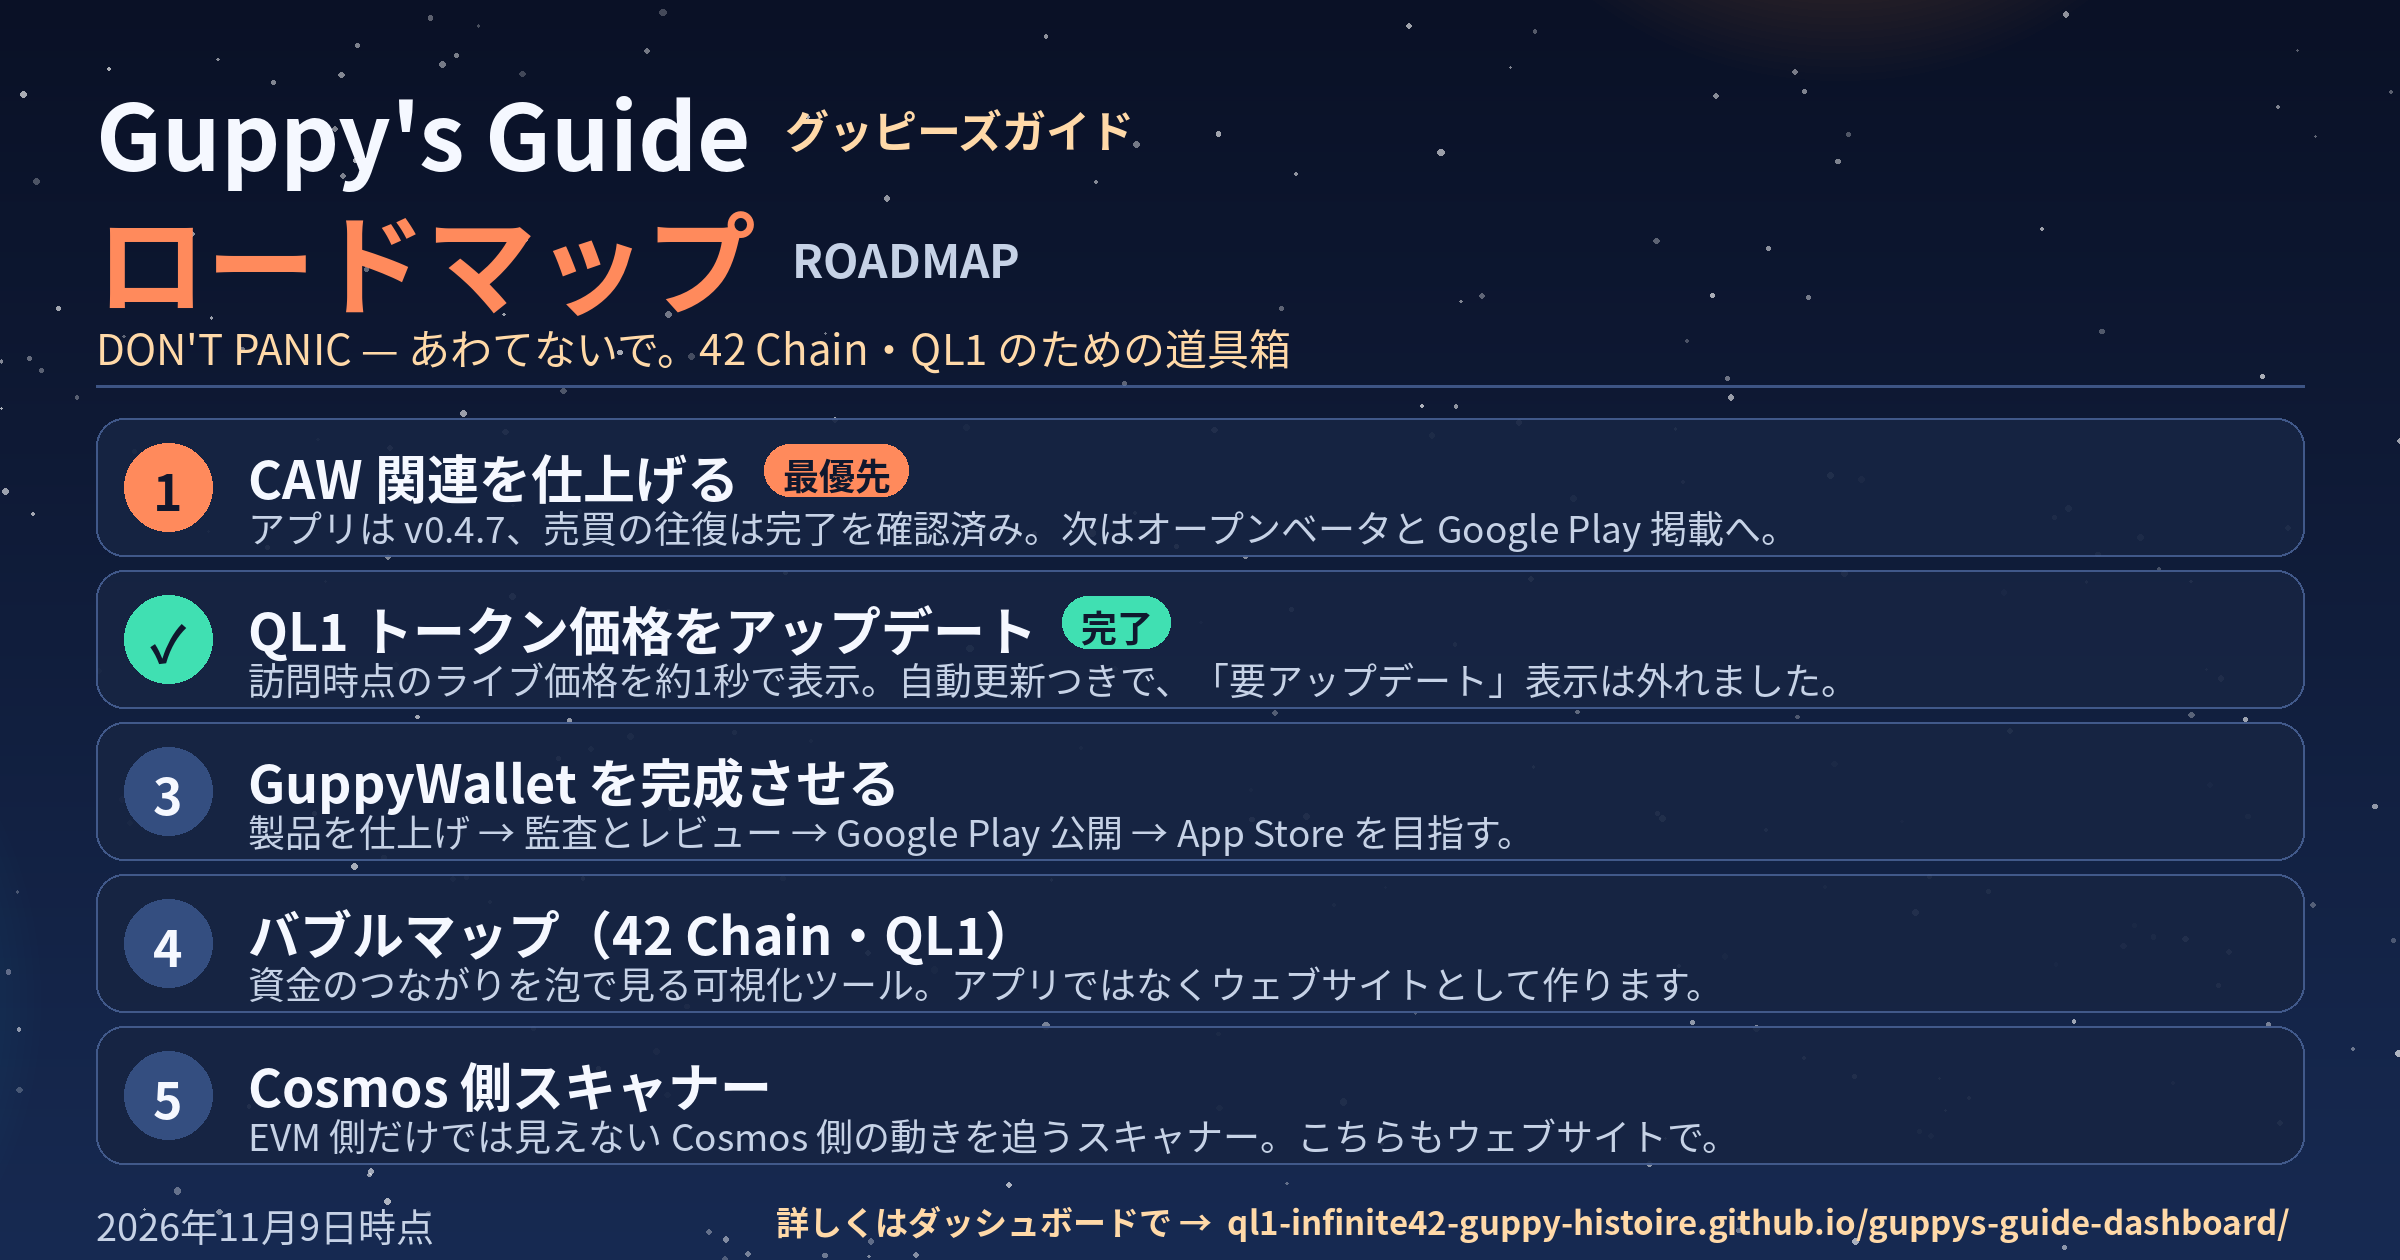
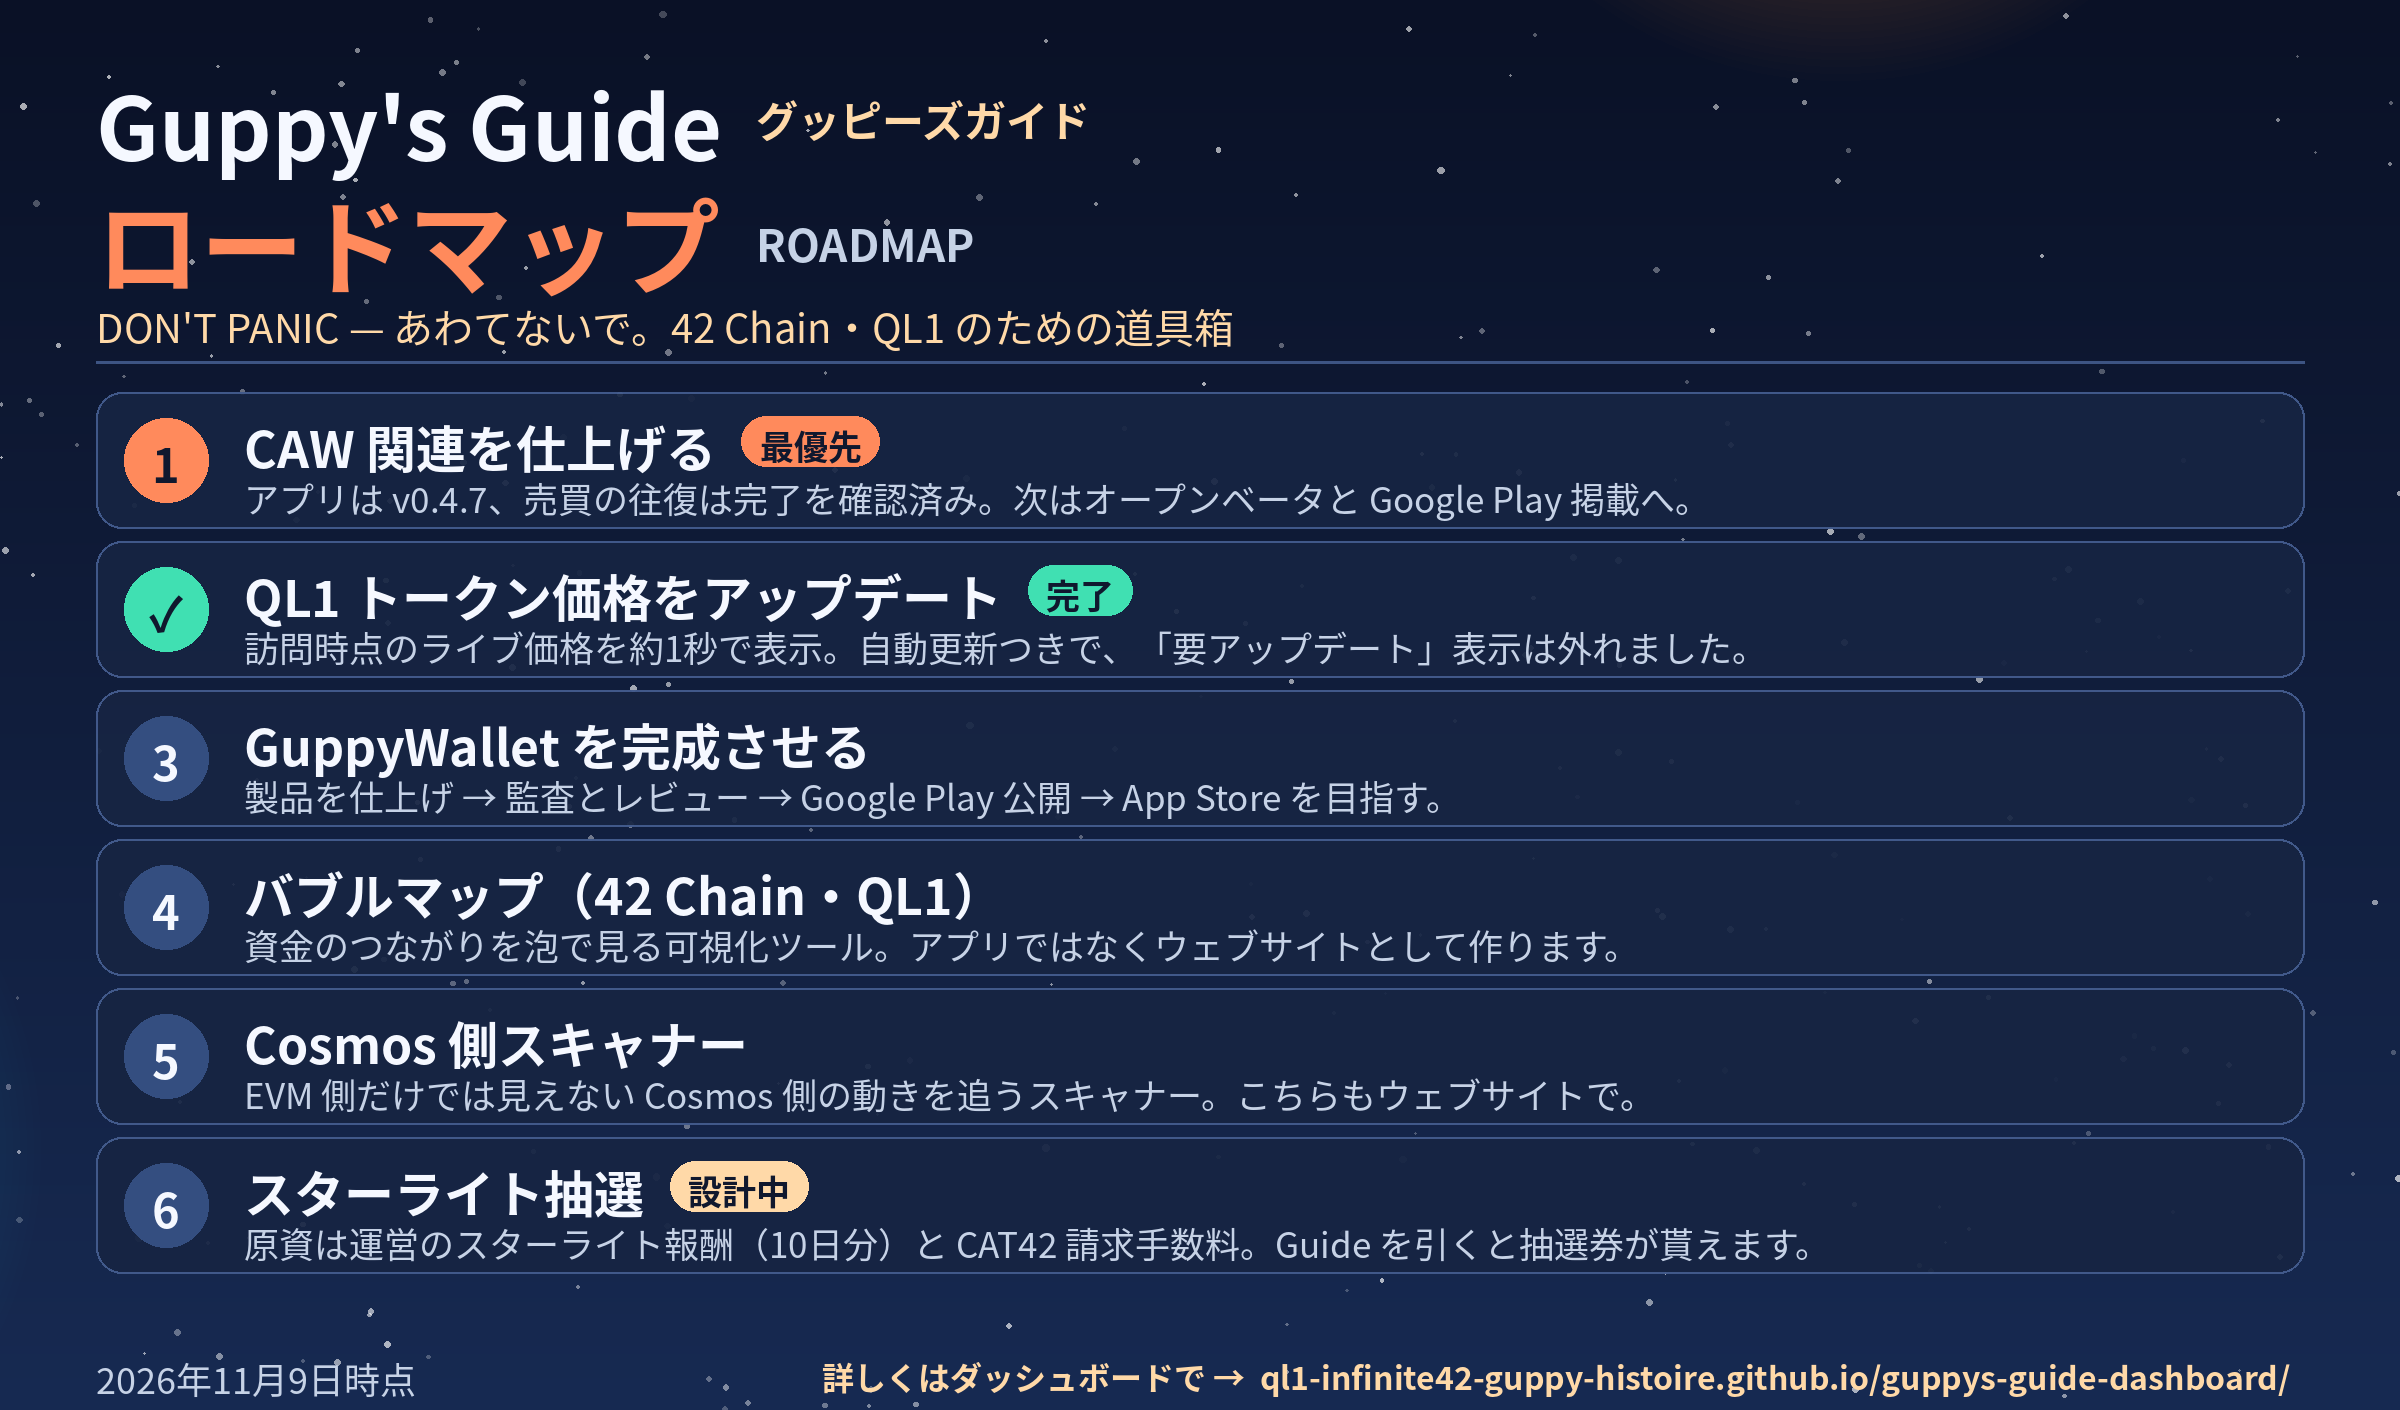
Roadmap: add Starlight Lottery as item 6 and remake the roadmap image
- Image rebuilt at 2400x1410 with all 6 items; item 6 notes both funding sources (operator Starlight rewards + CAT42 claim fees) and its in-design status
- ROADMAP array gains the Starlight Lottery entry in all 12 languages
- Banner image dimensions/alt updated to match

Changed region(s): [[0.0312, 0.0619, 0.9688, 0.9286], [0.3125, 0.9595, 0.9688, 0.9905], [0.0312, 0.9595, 0.1875, 0.9905]]

diff --git a/index.html b/index.html
@@ -270,7 +270,7 @@
       </header>
 
       <a class="roadmap-banner" href="#roadmap" aria-label="Roadmap details">
-        <img src="roadmap.png" alt="Guppy's Guide ロードマップ（2026年11月9日時点）: 1. CAW 関連を仕上げる（最優先） 2. QL1 トークン価格をアップデート（完了） 3. GuppyWallet を完成させる 4. バブルマップ（42 Chain・QL1） 5. Cosmos 側スキャナー" width="2400" height="1260" />
+        <img src="roadmap.png" alt="Guppy's Guide ロードマップ（2026年11月9日時点）: 1. CAW 関連を仕上げる（最優先） 2. QL1 トークン価格をアップデート（完了） 3. GuppyWallet を完成させる 4. バブルマップ（42 Chain・QL1） 5. Cosmos 側スキャナー 6. スターライト抽選（設計中）" width="2400" height="1410" />
         <span class="roadmap-banner-hint" data-i18n="roadBannerHint">タップでロードマップの詳細へ ↓</span>
       </a>
 
@@ -645,6 +645,10 @@
         {
           title: L("Cosmos 側スキャナー","Cosmos-side scanner for QL1 + 42 Chain","QL1 + 42 Chain 的 Cosmos 侧扫描器","QL1 + 42 Chain용 Cosmos 측 스캐너","Escáner del lado Cosmos para QL1 + 42 Chain","Scanner côté Cosmos pour QL1 + 42 Chain","Cosmos-seitiger Scanner für QL1 + 42 Chain","Scanner do lado Cosmos para QL1 + 42 Chain","Сканер стороны Cosmos для QL1 + 42 Chain","ماسح جانب Cosmos لـ QL1 + 42 Chain","QL1 + 42 Chain के लिए Cosmos-साइड स्कैनर","Pemindai sisi Cosmos untuk QL1 + 42 Chain"),
           body: L("EVM 側だけでは見えない Cosmos 側の動きを追うスキャナー。こちらもウェブサイトとして作る。","A scanner for the Cosmos side that the EVM view cannot see — also built as a website.","用于追踪仅靠 EVM 视图看不到的 Cosmos 侧动态的扫描器，同样作为网站构建。","EVM 뷰만으로는 볼 수 없는 Cosmos 측의 움직임을 추적하는 스캐너. 이쪽도 웹사이트로 만듭니다.","Un escáner para el lado Cosmos que la vista EVM no puede ver, también construido como sitio web.","Un scanner pour le côté Cosmos que la vue EVM ne peut pas voir — également construit comme site web.","Ein Scanner für die Cosmos-Seite, die die EVM-Ansicht nicht sehen kann — ebenfalls als Website gebaut.","Um scanner para o lado Cosmos que a visão EVM não consegue ver — também construído como site.","Сканер для стороны Cosmos, которую не видит EVM-представление, — также создаётся как веб-сайт.","ماسح لجانب Cosmos الذي لا تستطيع رؤية EVM رؤيته — يُبنى أيضًا كموقع ويب.","Cosmos पक्ष के लिए स्कैनर जिसे EVM दृश्य नहीं देख सकता — यह भी वेबसाइट के रूप में बनाया गया।","Pemindai untuk sisi Cosmos yang tidak dapat dilihat oleh tampilan EVM — juga dibangun sebagai situs web.")
+        },
+        {
+          title: L("スターライト抽選（新企画）","Starlight Lottery (new project)","Starlight 抽奖（新项目）","스타라이트 추첨 (신규 기획)","Sorteo Starlight (proyecto nuevo)","Loterie Starlight (nouveau projet)","Starlight-Lotterie (neues Projekt)","Loteria Starlight (projeto novo)","Лотерея Starlight (новый проект)","قرعة ستارلايت (مشروع جديد)","Starlight लॉटरी (नया प्रोजेक्ट)","Lotre Starlight (proyek baru)"),
+          body: L("運営のスターライト報酬（10日分）とCAT42請求手数料を原資にした抽選。Guideを引くとティアに応じた抽選券が貰え（コモン1／レア2／エピック4／レジェンダリー8）、応募すると券は減る。設計中。","A lottery funded by the operator's Starlight rewards (10 days' worth) plus the CAT42 claim fees. Pulling a Guide earns entry tickets by tier (Common 1 / Rare 2 / Epic 4 / Legendary 8), and entering spends them. In design.","以运营方的 Starlight 奖励（10 天量）与 CAT42 领取手续费为奖金池的抽奖。抽到 Guide 可按等级获得抽奖券（普通1／稀有2／史诗4／传说8），报名即消耗。设计中。","운영자의 스타라이트 보상(10일분)과 CAT42 청구 수수료를 재원으로 한 추첨. Guide를 뽑으면 등급별 추첨권(커먼1/레어2/에픽4/레전더리8)을 받고, 응모하면 소모됩니다. 설계 중.","Un sorteo financiado con las recompensas Starlight del operador (10 días) y las comisiones de reclamo de CAT42. Al obtener un Guide recibes boletos según su nivel (Común 1 / Raro 2 / Épico 4 / Legendario 8) y al participar se gastan. En diseño.","Une loterie financée par les récompenses Starlight de l'opérateur (10 jours) et les frais de réclamation CAT42. Tirer un Guide donne des tickets selon le niveau (Commun 1 / Rare 2 / Épique 4 / Légendaire 8), consommés à l'inscription. En conception.","Eine Lotterie, finanziert aus den Starlight-Belohnungen des Betreibers (10 Tage) plus den CAT42-Claim-Gebühren. Ein gezogener Guide gibt Tickets nach Stufe (Common 1 / Rare 2 / Epic 4 / Legendary 8), die bei Teilnahme verbraucht werden. In Planung.","Uma loteria financiada pelas recompensas Starlight do operador (10 dias) e pelas taxas de resgate do CAT42. Ao obter um Guide você ganha bilhetes por nível (Comum 1 / Raro 2 / Épico 4 / Lendário 8), gastos ao participar. Em projeto.","Лотерея, финансируемая из наград Starlight оператора (за 10 дней) и комиссий за получение CAT42. Выпавший Guide даёт билеты по уровню (Обычный 1 / Редкий 2 / Эпический 4 / Легендарный 8), которые тратятся при участии. В проектировании.","قرعة ممولة من مكافآت ستارلايت للمشغل (10 أيام) ورسوم مطالبة CAT42. سحب Guide يمنح تذاكر حسب المستوى (عادي 1 / نادر 2 / ملحمي 4 / أسطوري 8) تُستهلك عند الاشتراك. قيد التصميم.","ऑपरेटर के Starlight रिवॉर्ड (10 दिन) और CAT42 क्लेम शुल्क से चलने वाली लॉटरी। Guide मिलने पर स्तर के अनुसार टिकट मिलते हैं (कॉमन 1 / रेयर 2 / एपिक 4 / लीजेंडरी 8), भाग लेने पर खर्च होते हैं। डिज़ाइन चल रहा है।","Lotre yang didanai dari reward Starlight operator (10 hari) plus biaya klaim CAT42. Mendapat Guide memberi tiket sesuai tier (Common 1 / Rare 2 / Epic 4 / Legendary 8), yang terpakai saat ikut serta. Sedang dirancang.")
         }
       ];
 
